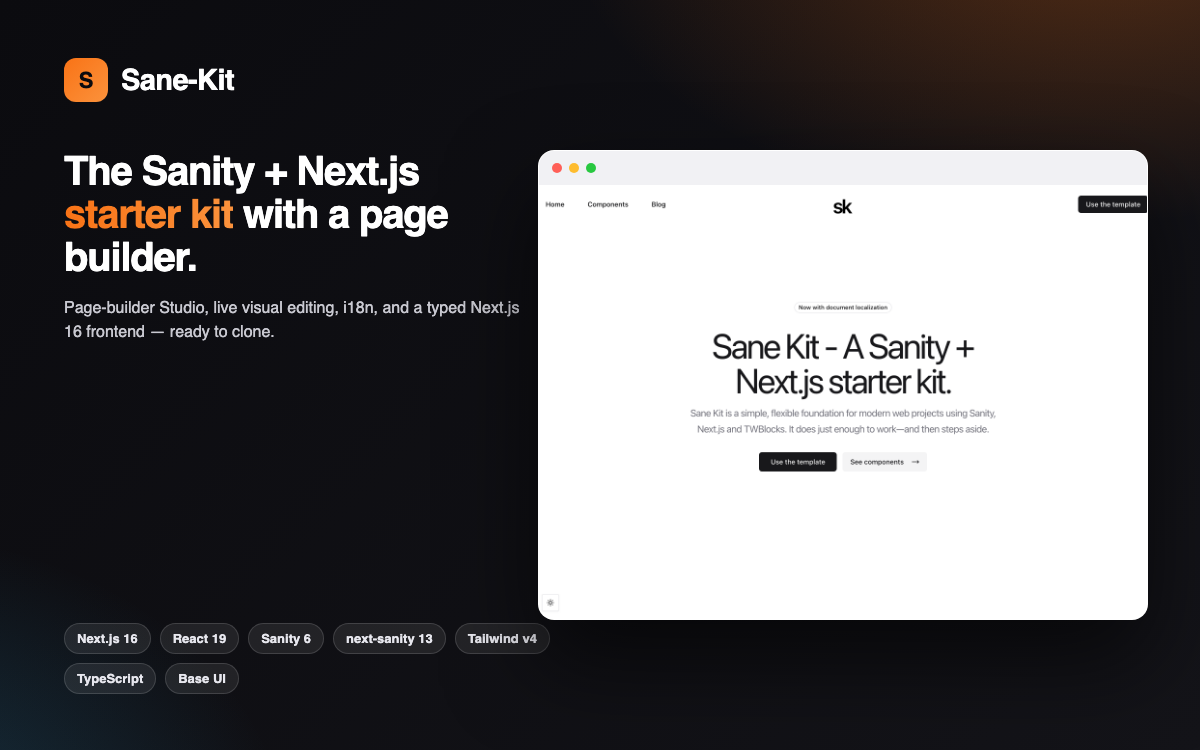
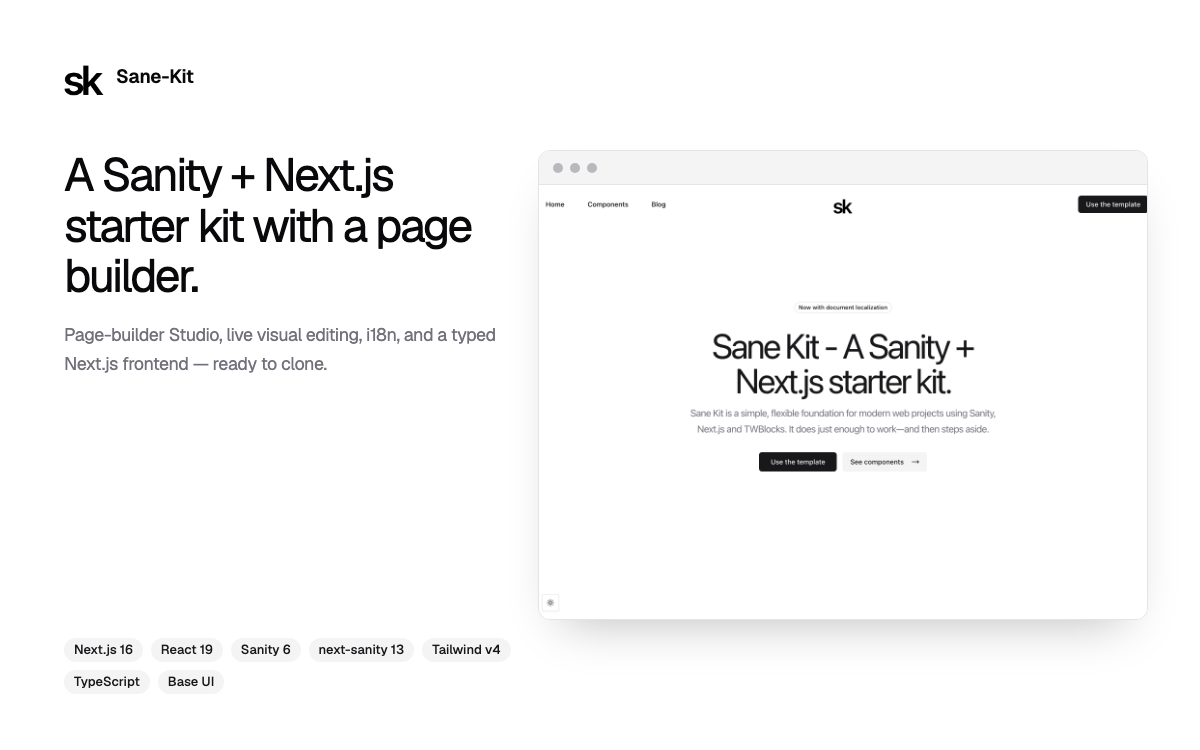
fix(docs): render Exchange preview with the app's own design tokens
The first pass invented an orange gradient and used a system font, so the
card did not match the product. The generator now reads the :root token
block from globals.css verbatim, uses Geist, mirrors the hero typography
(tracking-tighter heading at regular weight, text-muted-foreground body),
and reuses the real header logo with the site's own filter/blend. The
frame cannot drift from the visual identity.

diff --git a/docs/RELEASE.md b/docs/RELEASE.md
@@ -51,10 +51,12 @@ In short, it requires:
    the version/tag.
 
 3. **Preview image** — `docs/preview.png`, **1200 × 750**, referenced from the
-   README and used on the Exchange card. It is a marketing frame composed from a
-   real screenshot of the deployed frontend hero (captured with Playwright at 2×
-   and scaled to the exact Exchange size), so it reflects the actual template
-   rather than a mockup. Re-capture after a visual redesign:
+   README and used on the Exchange card. It is a marketing frame built to match
+   the product exactly: the colours and radii come from the app's own `:root`
+   tokens in `frontend/src/app/globals.css` (read verbatim at generation time),
+   the type mirrors the hero section's classes, and the real header logo is
+   reused with the exact filter/blend the site applies to it — over a real
+   screenshot of the running frontend. Re-capture after a visual redesign:
 
    ```bash
    SITE_URL=https://sane-kit-demo.vercel.app/en pnpm --filter frontend preview:image

diff --git a/CHANGELOG.md b/CHANGELOG.md
@@ -71,8 +71,9 @@ production patterns. See [`docs/UPGRADE-PLAN.md`](./docs/UPGRADE-PLAN.md) and
 
 - `docs/RELEASE.md` covers the Sanity Exchange submission; the **1200 × 750**
   preview (`docs/preview.png`) is generated reproducibly with
-  `pnpm --filter frontend preview:image`, composing a real screenshot of the
-  running frontend into a branded frame.
+  `pnpm --filter frontend preview:image` — a real screenshot of the running
+  frontend framed with the app's own design tokens (read from `globals.css`),
+  so it cannot drift from the product's visual identity.
 - CI is tuned for GitHub Actions minutes: superseded runs are cancelled, a fast
   `verify` job runs alongside a single `build-e2e` job, and `.next/cache` is
   cached.
